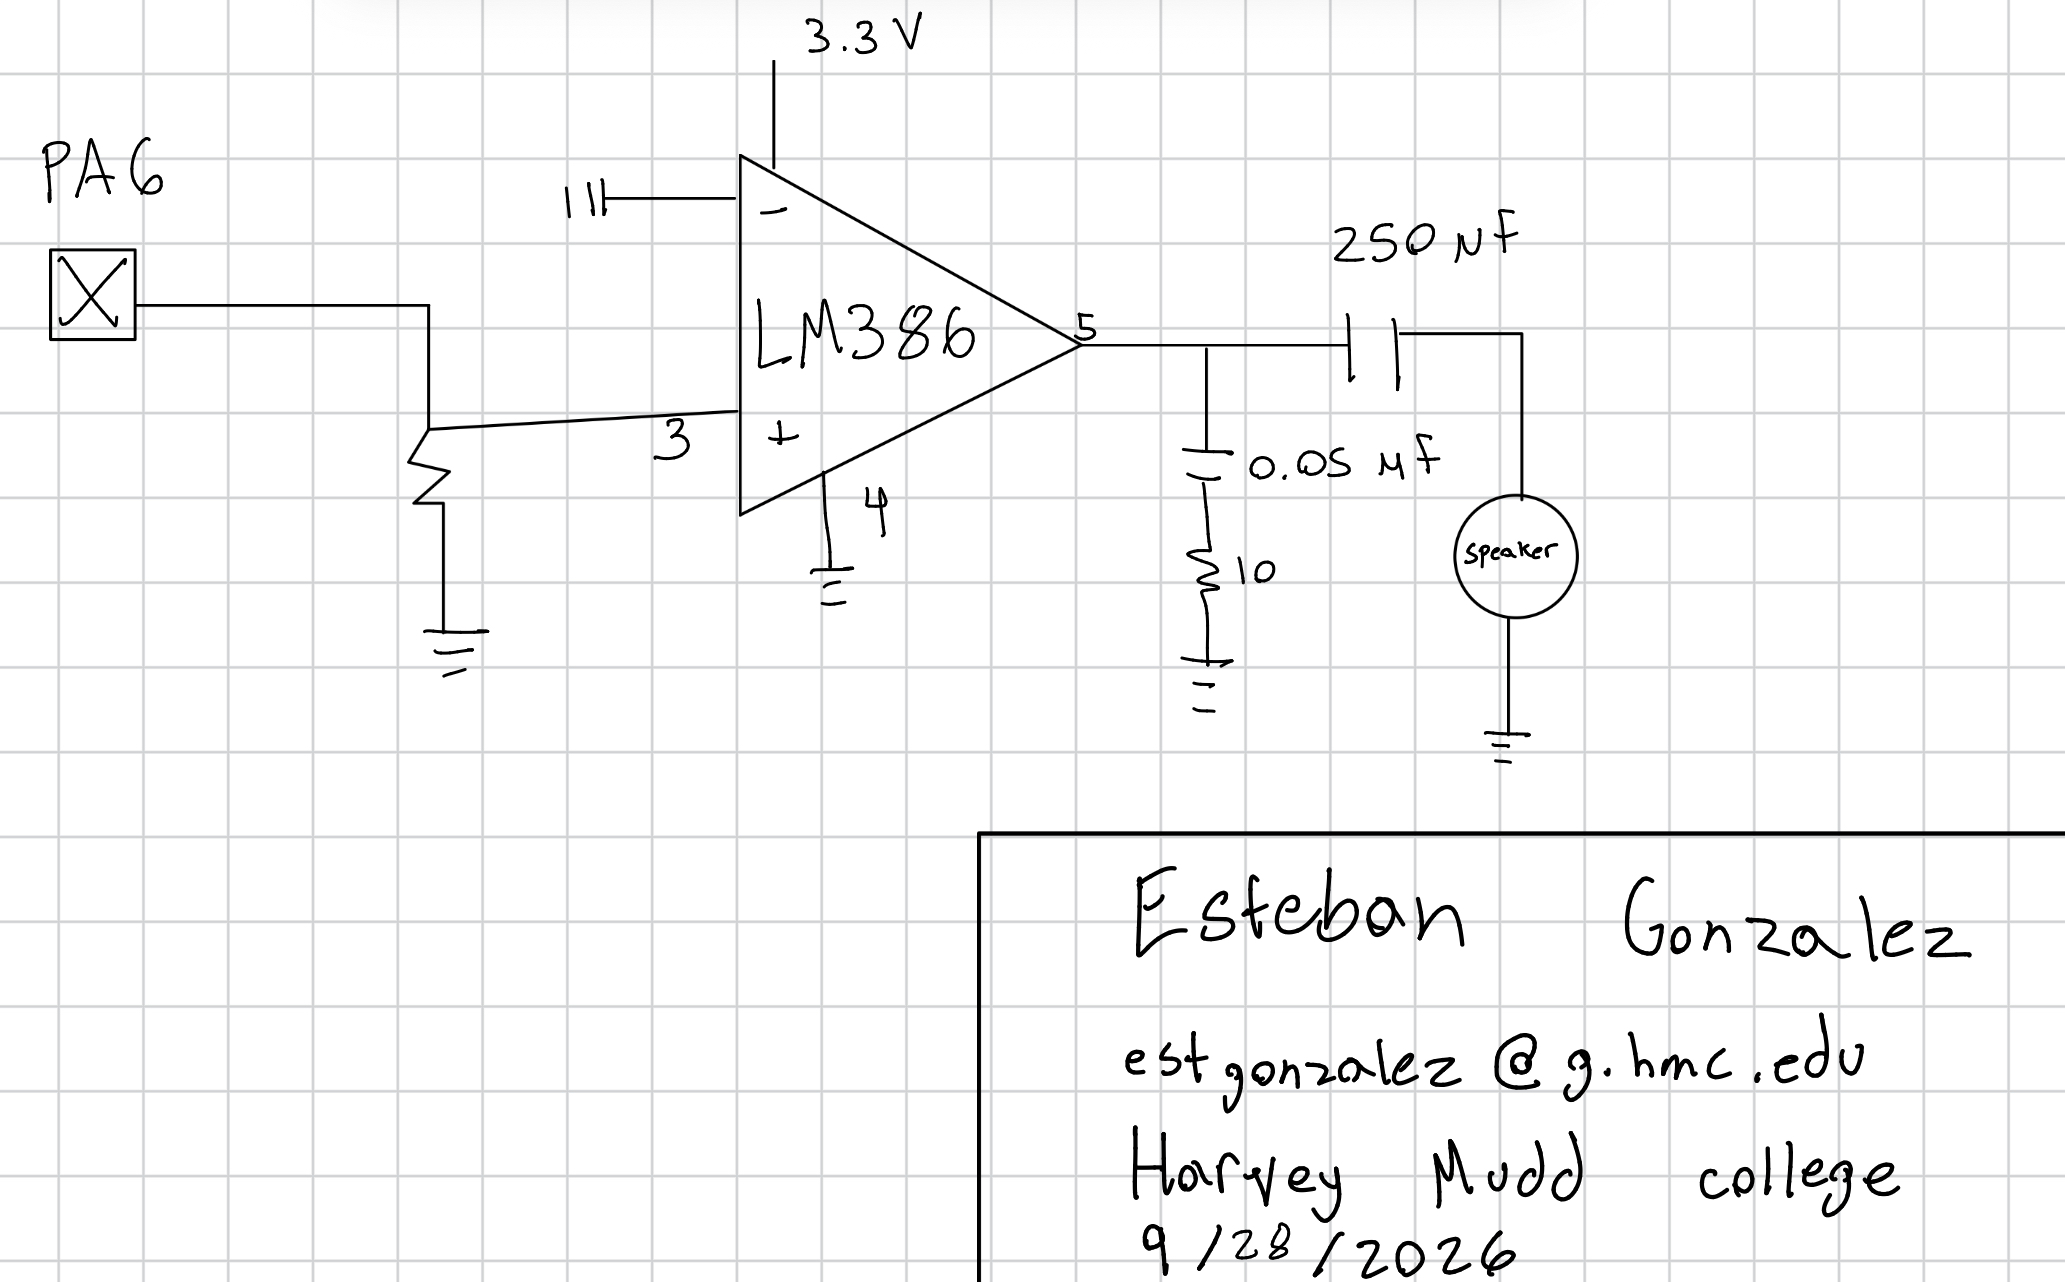
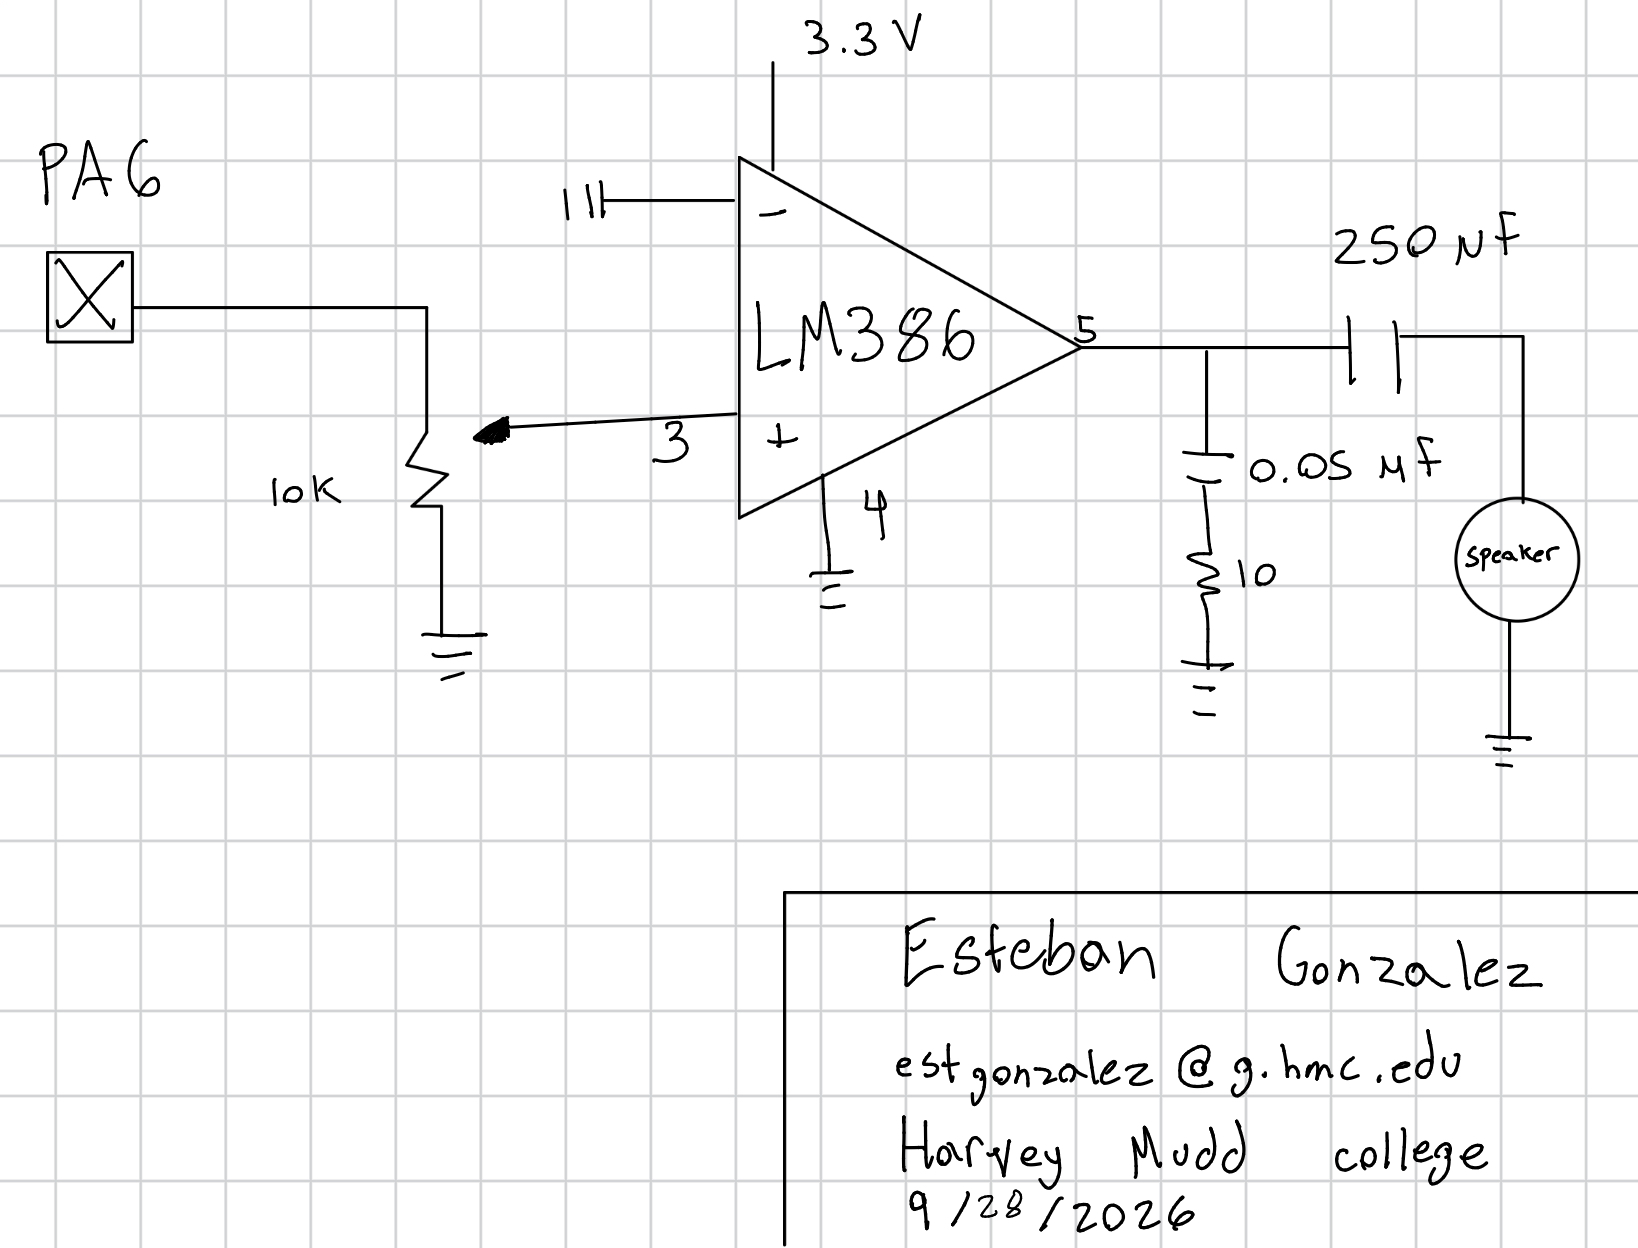
Making portfolio live

diff --git a/docs/Lab4.html b/docs/Lab4.html
@@ -402,11 +402,15 @@ window.Quarto = {
 <p><span class="math inline">\(max = 80MHz / (1)(2) = 40 MHz\)</span></p>
 <p>In reality, the human ear can’t hear such a high frequency and there is limitations to hardware that make the maximum frequency lower.</p>
 <p>The minimum frequency was calculated the following way:</p>
-<p><span class="math inline">\(min = 80MHz / (65536)(65536) = 10.0186 Hz\)</span></p>
+<p><span class="math inline">\(min = 80MHz / (65536)(65536) = 0.0186 Hz\)</span></p>
 <p>The calculations for all the notes of Fur Elise is below:</p>
-<iframe src="https://docs.google.com/spreadsheets/d/e/2PACX-1vRyViy7JWPQBBZ94MI-grA6d8Q5XPr4eMw4vzxMXkO0Kxr3c2jL587PqJWSTTV62l4VDhm6-9Res4NC/pubhtml?gid=0&amp;single=true&amp;widget=true&amp;headers=false">
-</iframe>
-<p>Checking just 220 Hz and 1000 Hz is not enough to gaurantee all the notes of Fur Elise fall within 1% error. This is because the notes could be continous, which would lead to some errors.</p>
+<div class="quarto-figure quarto-figure-center">
+<figure class="figure">
+<p><img src="images/Fur_Elise_calc.png" class="img-fluid figure-img"></p>
+<figcaption>Calculations</figcaption>
+</figure>
+</div>
+<p>Checking just 220 Hz and 1000 Hz is not enough to gaurantee all the notes of Fur Elise fall within 1% error. This is because the notes could be noninteger values, which would lead to some errors due to rounding.</p>
 </section>
 <section id="schematic" class="level3">
 <h3 class="anchored" data-anchor-id="schematic">Schematic</h3>
@@ -416,7 +420,7 @@ window.Quarto = {
 <figcaption>Schematic</figcaption>
 </figure>
 </div>
-<p>The schematic in Figure 1 demonstrates the physical layout of the design. The pin was connected to a potentiameter. This allowed the volume of the speaker to be adjusted. The aplifier had a gain of 20, and allowed the music notes to be played at a suitable noise level.</p>
+<p>The schematic in Figure 2 demonstrates the physical layout of the design. The pin was connected to a potentiameter. This allowed the volume of the speaker to be adjusted. The aplifier had a gain of 20, and allowed the music notes to be played at a suitable noise level.</p>
 </section>
 <section id="conclusion" class="level3">
 <h3 class="anchored" data-anchor-id="conclusion">Conclusion</h3>
